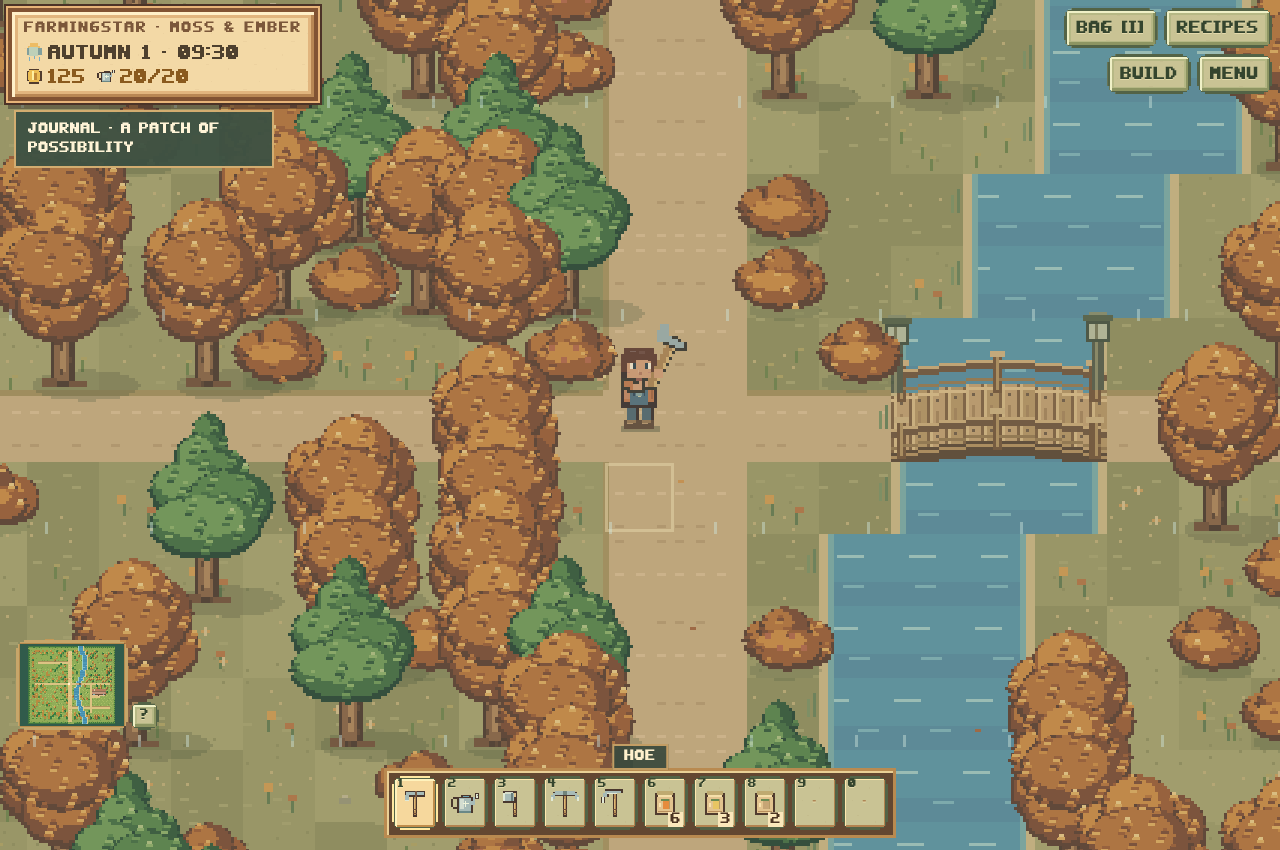
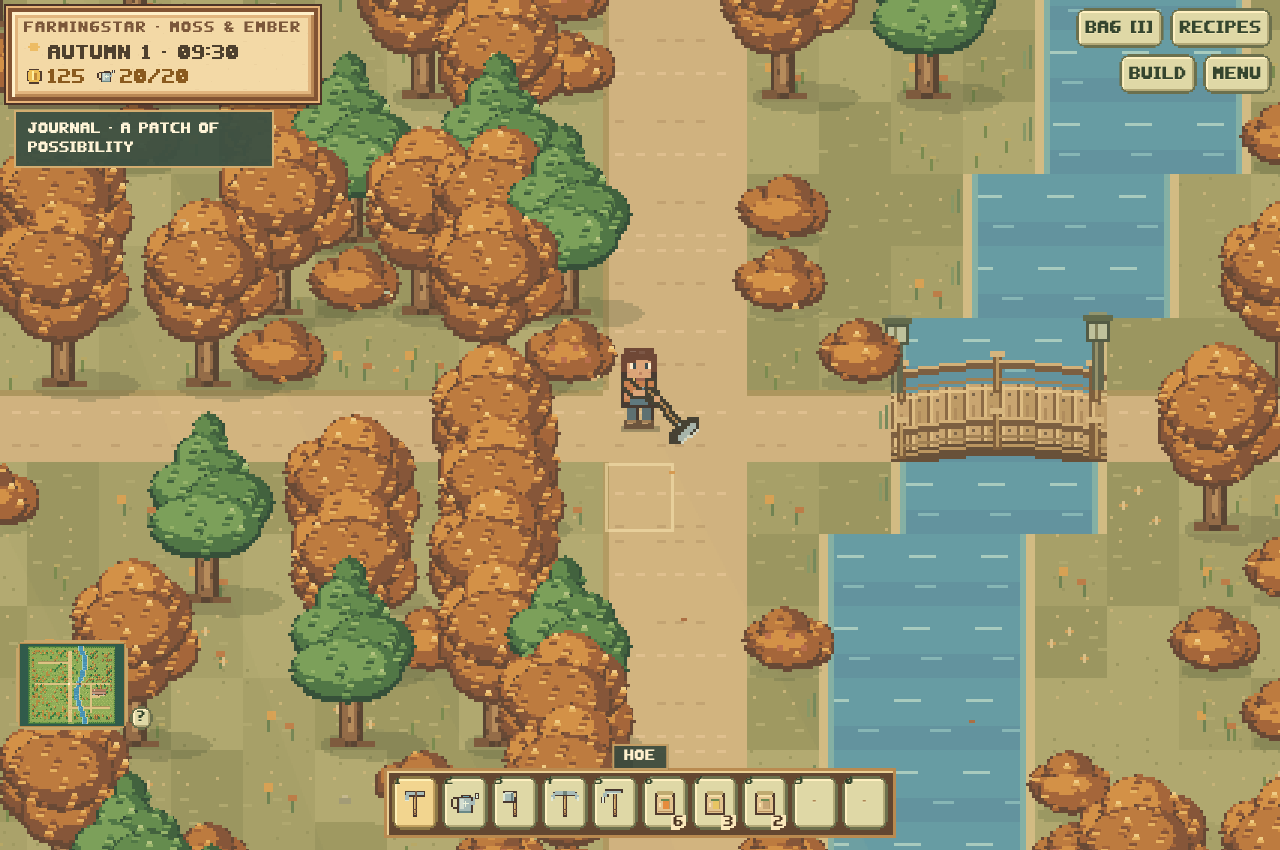
Update development review artifacts

diff --git a/previews/DEVELOPMENT_TRACKER.md b/previews/DEVELOPMENT_TRACKER.md
@@ -6,8 +6,8 @@ Game changes are confined to `index.html`. This tracker is documentation request
 
 ## Current work
 
-- Revise navigation pages to start at the top and use a whole page when space allows. Use ordinary buttons inside a lightly greyed panel there; use projecting sticker tabs only when both pages are fuller.
-- Extend the approved yellow-paper, centre-crease, leather-outline and stepped-corner design language across the other menus. Preserve useful physical details such as the satchel handle.
+- Review the revised full-page journal navigation, attached edge tabs and consistent rounded button layers. Recipe ingredients retain their facing page; journal navigation uses a spare page when available.
+- The yellow-paper, centre-crease, leather-outline and stepped-corner design is now shared across the menus; retain the satchel handle and obtain feedback on the latest pictures.
 - Build the dedicated overhead furnishing editor and its mouse/touch/controller interactions.
 - Continue integration testing and repair confirmed failures before completion.
 
@@ -16,33 +16,36 @@ Game changes are confined to `index.html`. This tracker is documentation request
 | Feature | Implementation | Verification / remaining work |
 |---|---|---|
 | Camera bounds and settling | Implemented | Old out-of-bounds transition reproduced; 20 area/frame-rate cases and orientation changes passed |
-| Controller foundation | Implemented in shared HTML | Synthetic movement, hotbar, pause/back and disconnect passed; remapping, prompts and background-input checks remain; physical/native compatibility is not certified |
+| Controller support | Implemented in shared HTML | Synthetic title/start, name entry, colour palette, movement/deadzone, hotbar, bag/map/journal shortcuts, sliders/selects, remap/swap/persistence, reserved D-pad, atlas panning, placement, fishing, cooking, arcade, focus and disconnect tests pass. Physical controllers/native compatibility remain unverified |
 | Phone layouts A and C | Implemented, A default | 14 variants across seven phone/tablet sizes passed overlap checks; minimap opening and preference persistence passed |
 | Compact phone title / shortcut menu | Implemented | Phone checks pass; final visual review remains |
 | Expanded farm and town | Implemented | Old/new outdoor landmark reachability passed; full integration rerun underway |
 | New villagers and interiors | Implemented | Schedules/dialogue integrated; full interior and path regressions underway |
 | Chicken purchasing and housing | Implemented | Unique identities, cost, capacity, valid spawning and failed-save rollback passed |
-| Feed, water, health and medicine | Implemented | Three hens consume full supplies over two days; sustained neglect and recovery tests passed; further fault and animation checks remain |
+| Feed, water, health and medicine | Implemented | Three hens consume full supplies over two days; sustained neglect and recovery tests passed; feed/water/medicine single-commit and failed-save rollback checks now pass; final animation review remains |
 | Eggs | Implemented | Collection conservation, repeated-collection rejection, storage/persistence passed; final cooking/delivery integration checks remain |
 | Coop / fixture artwork and chicken behaviours | Implemented | Visual and extended behaviour review underway |
 | Slot-based chest interface | Implemented | Two grids, drag transfers both directions, splitting and item conservation passed; further failure/quality checks remain |
 | Recipe book and journal | Functional, visual revision underway | Page/index navigation, page turns, swipe support and menu tests pass; latest whole-page navigation request is being applied |
-| Overhead furnishing editor | In progress | Existing placement/storage safeguards retained; new editor not complete |
+| Dedicated overhead furnishing editor | Not implemented yet | Existing world placement/storage safeguards are retained and tested. The new editor is the main outstanding gameplay feature |
 | Arcade | Three playable games implemented | Maze completion, memory pairs, rhythm scoring, duplicate-tap rejection, high scores, paused farm state and safe exits passed |
 | Enterable mine | Implemented | Entry, tool tiers, real resource yields, repeated-reward rejection and regeneration passed |
 | Seasonal merchandise / retained ownership | Implemented | Seasonal stock and furnishings added; final calendar/ownership regression matrix remains |
 | Foliage, bridges, lighting and environmental art | Integrated | Cached seasonal foliage, bridge lamps/arches, dawn/dusk/night, grass and decorations added; visual/performance checks underway |
-| Held tools / working poses | Integrated | Hand-attached raster tools and articulated arms added; visual and gameplay regression checks remain |
-| More generated music and paper sounds | Integrated | Soft, plucked, chip and varied settings added; synthesis/lifecycle/mute checks remain |
-| Save migration / portable saves | Schema 5 integrated | Old schemas 1–4 remain accepted; new chicken state and actual stored schema 5 tested. Full legacy/negative-data/fault matrix still underway |
+| Held tools / working poses | Implemented; visual review pending | Fixed-length hand-attached tools; overhead windup/contact/recovery and tipped-can watering pass targeted checks; original directional impact/tier/energy regressions pass |
+| Music, tool sounds and ambience | Implemented; audible review pending | Soft/plucked/chip music, paper sounds, distinct soil/wood/stone/water/harvest effects, birds and proximity river ambience. Generated effects, mute and explicit node cleanup pass browser checks |
+| Save migration / portable saves | Schema 5 integrated | Old schemas 1–4 remain accepted; new chicken state and actual stored schema 5 tested. Main legacy/negative-data regression and portable-save suites pass; final expansion-specific validation remains |
 | Native apps / GitHub release | On hold by user instruction | No updated APK, EXE, DMG or release is being produced in this browser-only pass |
 
 ## Verification ledger
 
-- All eight original browser suites passed after the initial camera/controller foundation changes.
+- All eight main browser suites passed on the controller/visual expansion checkpoint (`integration-regressions-r10.log`). This includes original-house nighttime persistence and the independent QA regressions.
 - Current targeted suites pass for chicken care/ownership/eggs/save rollback, arcade/mining, book/chest interactions, and all 14 A/C phone layouts.
-- The first complete expansion rerun stopped at a missing navigation/service anchor in newly added homes. Those rooms now have explicit reachable anchors; retest is pending. This is not marked resolved yet.
-- Broader legacy regression results must be read separately from targeted passes. No full expansion pass is claimed yet.
+- New-home service/navigation anchors are now covered by passing interior/route suites. Clear riverbank access was restored after procedural trees displaced the old fishing approach.
+- Portable import/export, malformed files, interrupted imports, multi-key rollback and native save-bridge contract checks pass.
+- The latest journal navigation eligibility/viewport refinement passes: recipe ingredients remain visible, chapter navigation starts at the top of the spare page, and page controls fit desktop plus portrait/landscape phone viewports.
+- Six new reusable suites live in `tests/`: controller, tool/audio, animals, activities, book/storage, and phone layouts. All six reusable suites passed in a clean post-restart run.
+- The entire expansion is not marked complete: the dedicated editor, final seasonal/placement matrix, design feedback and performance review remain.
 - No physical-controller, audible-output, real-phone frame-rate or newly packaged-app certification is claimed.
 
 ## Confirmed integration issues
@@ -54,10 +57,15 @@ Game changes are confined to `index.html`. This tracker is documentation request
 | Occupied coop could be stored | Generic furniture removal allowed active housing removal; occupied coop guard added | Guard implemented; extended UI retest pending |
 | New shopkeeper Browse Shop crashed | Old handler only mapped the original shops; service routing extended | Implemented; extended dialogue retest pending |
 | Save writer forced old schema number | Existing save() assigned version 4; changed writer to 5 and asserted actual stored bytes | Targeted persistence test passes |
-| Nested care transaction could save midway | Existing transact() saves internally; outer transaction now defers those writes until full commit | Purchase rollback passes; care-specific write-fault matrix pending |
+| Nested care transaction could save midway | Existing transact() saves internally; outer transaction now defers those writes until full commit | Purchase plus feed, water, eggs and medicine commit-once / full rollback tests pass |
 | Recipe labels overlapped buttons | Flex shrink compressed wrapped labels; fixed non-shrinking labelled controls | Menu tests and screenshots pass |
 | Portrait HUD overlapped minimap | Inherited 124px action-width cap wrapped controls; removed cap for the compact phone row | All 14 A/C layout cases pass |
-| New home navigation anchor absent | Added explicit reachable living/interaction anchors | Full-suite retest pending |
+| New home navigation anchor absent | Added explicit reachable living/interaction anchors | Full interior/path regression passes |
+| Original homes rejected by expanded save validator | Dynamic room-only list omitted Lina/Rowan/Mira homes; canonical scene list now includes declared building destinations | Real nighttime save/reload in all three homes, mid-route reload and full stability suite pass |
+| Riverbank fishing approach blocked by scenery | Procedural trees could occupy a bank approach; adjacent bank foliage is now non-blocking | Original purchased-rod/catch/sell reproduction passes |
+| Tool sprites stretched / hoe orientation unclear | Target-relative shaft length replaced with fixed geometry and explicit overhead/contact/recovery poses | Pose, real watering, original impacts and tier/energy tests pass; visual review pending |
+| Button layers used conflicting corner shapes | Backing, frame and face now share stepped outlines; layer bounds stay inside the hit box | Slot overflow and phone/tablet layout checks pass |
+| Whole-page index pushed book controls outside viewport | Spread height now accounts for header/footer; ordinary page buttons use a grey panel, attached tabs remain at the edge | Desktop/phone viewport and recipe visibility regressions pass |
 
 ## Design review
 
@@ -66,3 +74,20 @@ Preview images are shared on `review/1.0-menu-previews`, separately from unrelea
 User-selected phone behaviour: **A by default, optional C in Settings**.
 
 For each set of visual options, wait for the user's response before continuing that specific design task. Continue independent gameplay, bug fixes and tests meanwhile. Silence is not approval.
+
+## Repeatable checks
+
+Run `npm test` and `node tests/portable.cjs` for the established regression suite. Expansion checks are available as:
+
+```sh
+node tests/controller.cjs
+node tests/tool-audio.cjs
+node tests/animals.cjs
+node tests/activities.cjs
+node tests/book-storage.cjs
+node tests/phone-layouts.cjs
+```
+
+Browser tests need installed Playwright and Chromium (`CHROMIUM_PATH` can override the browser path). Each test uses a fresh disposable origin. Generated images are under the ignored `tests/artifacts/1.0/` directory. No player save files are used.
+
+Existing test expectations were updated only for intentional changes: non-working residents retain daily routines; the closed pen gate deliberately blocks one path tile and must open/close correctly; the accepted landscape hotbar can be 350px wide; destination map icons are removed. Fixtures that deliberately rewind the calendar now reset their empty-flock test clock. Transaction, conservation, collision, restore and corrupt-data assertions remain in place.
